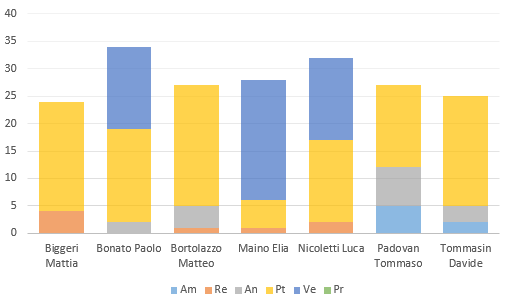
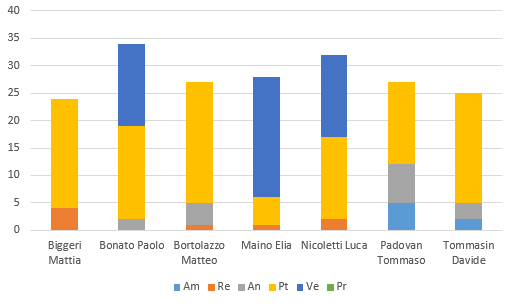
pdp aggiornato

diff --git a/LaTeX/Piano di progetto.tex b/LaTeX/Piano di progetto.tex
@@ -505,7 +505,15 @@
 				con largo anticipo, o spostare quelle già fissate in un momento in cui il maggior numero possibile di componenti offre disponibilità. 
 				
 				Durante questa fase è emerso il rischio \hyperref[Tecnologie adottate]{Tecnologie adottate (2.1.1)} in quanto alcuni membri del gruppo hanno avuto difficoltà nella gestione della Repository e dei commit dovuti ad alcuni conflitti sul codice e sui documenti. L'\emph{Amministratore} però ha fornito tempestivamente documentazione e supporto a riguardo e quindi ciò ha avuto un impatto limitato.
-%			\subsubsection{Conclusione}
+
+			\subsubsection{Conclusione}
+				Questa fase è quasi completamente priva di rischi, in quando è la fase terminante del progetto. Le tecnologie sono ormai conosciute da tutto 
+				il team, ogni membro conosce le proprie responsabilità, capacità e disponibilità e quindi sa gestirsi in modo autonomo, inoltre, come gruppo 
+				ogni singolo membro ha imparato a conoscere gli altri e a saper riconoscere quali task possono essere portati a termine da chi.
+				L'unico rischio che si è presentato e che ha portato a delle variazioni è stato quello della 
+				\hyperref[VariazioneDisponibilita]{Variazione disponibilità (2.2.2)}, in quanto 3 membri su 7 hanno avviato lo stage curriculare. 
+				Non si sono presentati altri rischi. È stata una frase relativamente breve e per questo è stato possibile mitigare i rishci non appena si 
+				inizava a percepire il loro avvenimento.
 				
 				
 	
@@ -991,7 +999,7 @@
 						\multicolumn{1}{r|}{Bonato Paolo} & 3 & & & 16 & 36 & & 55\\ 
 						\multicolumn{1}{r|}{Bortolazzo Matteo} & 6 & 5 & & 15 & & 28 & 54\\ 
 						\multicolumn{1}{r|}{Maino Elia} & 3 & & & 10 & 28 & 14 & 55\\
-						\multicolumn{1}{r|}{Nicoletti Luca} & & & & 25 & & 30 & 55\\
+						\multicolumn{1}{r|}{Nicoletti Luca} & & & & 22 & & 30 & 55\\
 						\multicolumn{1}{r|}{Padovan Tommaso} & & & 2 & & 25 & 28 & 55\\
 						\multicolumn{1}{r|}{Tommasin Davide} & & & 2 & 18 & 33 & & 53\\
 						\noalign{\hrule height 1.5pt}						
@@ -1219,11 +1227,11 @@
 					Responsabile & 12 & 360 \\
 					Amministratore & 10 & 200 \\
 					Analista & 4 & 100\\
-					Progettista & 101 & 2222\\
+					Progettista & 98 & 2156\\
 					Verificatore & 122 & 1830\\
 					Programmatore & 133 & 1995 \\
 					\noalign{\hrule height 0.5pt}
-					\textbf{Totali} & 382 & 6707 \\
+					\textbf{Totali} & 379 & 6641 \\
 					\noalign{\hrule height 1.5pt}
 				\end{tabularx}
 				\caption{Costo ore - fase di Sviluppo ulteriore ed incremento. }
@@ -1297,11 +1305,11 @@
 						Responsabile & 35 & 1050 \\
 						Amministratore & 56 & 1120 \\
 						Analista & 103 & 2575\\
-						Progettista & 277 & 6094\\
+						Progettista & 274 & 6028\\
 						Verificatore & 272 & 4080\\
 						Programmatore & 158 & 2370 \\
 						\noalign{\hrule height 0.5pt}
-						\textbf{Totali} & 901 & 17289 \\
+						\textbf{Totali} & 898 & 17223 \\
 						\noalign{\hrule height 1.5pt}
 					\end{tabularx}
 				\caption{Costo ore - totale con investimento. } 
@@ -1334,11 +1342,11 @@
 						Responsabile & 25 & 750 \\
 						Amministratore & 38 & 760 \\
 						Analista & 20 & 500\\
-						Progettista & 246 & 5412\\
+						Progettista & 238 & 5236\\
 						Verificatore & 236 & 3540\\
 						Programmatore & 158 & 2370 \\
 						\noalign{\hrule height 0.5pt}
-						\textbf{Totali} & 723 & 13332 \\
+						\textbf{Totali} & 715 & 13156 \\
 						\noalign{\hrule height 1.5pt}
 					\end{tabularx}
 				\caption{Costo ore - totale rendicontate.}
@@ -1472,8 +1480,14 @@
 				%image
 				\begin{figure}[H]
 					\centering
-					\includegraphics[width=\textwidth]{diff_pr}
-					\caption{Grafico differenza ore e costi fase di Progettazione e sviluppo.}
+					\includegraphics[width=\textwidth]{diff_h_pr}
+					\caption{Grafico differenza ore fase di Progettazione e sviluppo.}
+				\end{figure}
+				%image
+				\begin{figure}[H]
+					\centering
+					\includegraphics[width=\textwidth]{diff_c_pr}
+					\caption{Grafico differenza costi fase di Progettazione e sviluppo.}
 				\end{figure}
 				
 					\subsubsection{Conclusioni}
@@ -1483,22 +1497,22 @@
                     Queste ore in più sono dovute ad un'analisi ed una progettazione più dettagliata di quanto previsto, e a dei test di utilizzo del 
                     linguaggio \emph{Scala} che non erano stati presi in considerazione. 
 				
-				\subsubsection{Preventivo a finire di Progettazione e sviluppo}
-					Nella seguente tabella viene riportato il preventivo a finire (costruito rivalutando il preventivo iniziale alla luce delle risultanze 
+				\subsubsection{Consuntivo di periodo di Progettazione e sviluppo}
+					Nella seguente tabella viene riportato il consuntivo a finire (costruito rivalutando il preventivo iniziale alla luce delle risultanze 
 					di consuntivo di periodo).
 					\begin{table}[H]
 						\begin{tabularx}{\textwidth}{Y Y Y Y Y}
 							\noalign{\hrule height 1.5pt}
 							\rowcolor{orange!85}Ruolo & Ore previste & Variazione & Costo & Costo rivalutato\\
 							\noalign{\hrule height 1.5pt}
-							Responsabile & 25 & -\space1 & 750 & \cellcolor{green!55}720 \\
-							Amministratore & 38 & -\space1 & 760 & \cellcolor{green!55}740 \\
-							Analista & 20 & +\space2 & 500 & \cellcolor{red!55}550\\
-							Progettista & 246 & +\space3 & 5412 & \cellcolor{red!55}5478\\
-							Verificatore & 236 & -\space3 & 3540 & \cellcolor{green!55}3495\\
-							Programmatore & 158 & +\space2 & 2370 & \cellcolor{red!55}2400\\
+							Responsabile & 25 & -\space1 & 750 & 720 \\
+							Amministratore & 38 & -\space1 & 760 & 740 \\
+							Analista & 20 & +\space2 & 500 & 550\\
+							Progettista & 238 & +\space3 & 5236 & 5302\\
+							Verificatore & 236 & -\space3 & 3540 & 3495\\
+							Programmatore & 158 & +\space2 & 2370 & 2420\\
 							\noalign{\hrule height 0.5pt}
-							\textbf{Totali} & 723 & +2 & 13332 & \cellcolor{red!55}13383\\
+							\textbf{Totali} & 715 & +2 & 13156 & 13227\\
 							\noalign{\hrule height 1.5pt}
 						\end{tabularx}
 					\caption{Costo ore - totale aggiornato fase Progettazione e sviluppo.}
@@ -1530,44 +1544,115 @@
 				\end{table}
 				
 				Di seguito vengono riportati due grafici che rappresentano la differenza in ore e in costi tra preventivo e consuntivo di periodo della 
-				fase di \emph{progettazione e sviluppo}.
+				fase di \emph{Sviluppo ulteriore ed incremento}.
 				%image
 				\begin{figure}[H]
 					\centering
-					\includegraphics[width=\textwidth]{diff_in}
-					\caption{Grafico differenza ore e costi fase di Sviluppo ulteriore ed incremento.}
-				\end{figure}	
+					\includegraphics[width=\textwidth]{diff_h_in}
+					\caption{Grafico differenza ore fase di Sviluppo ulteriore ed incremento.}
+				\end{figure}
+				%image
+				\begin{figure}[H]
+					\centering
+					\includegraphics[width=\textwidth]{diff_c_in}
+					\caption{Grafico differenza costi fase di Sviluppo ulteriore ed incremento.}
+				\end{figure}
 				
 					\subsubsection{Conclusioni}		
 						Come è possibile notare dalla tabella e dalle immagini, la realizzazione di questa fase discosta leggermente da quanto previsto. In particolare si evince che le attività di programmazione sono state sopravvalutate. L'apprendimento delle tecnologie per la programmazione è stato più rapido di quanto preventivato e questo ha permesso di risparmiare delle ore.
 Al contrario la realizzazione dei test da parte dei verificatori ha richiesto più tempo del previsto. In conclusione la fase è stata portata a termine con un leggero risparmio.
 				
-					\subsubsection{Preventivo a finire Sviluppo ulteriore ed incremento}
-					Nella seguente tabella viene riportato il preventivo a finire (costruito rivalutando il preventivo iniziale alla luce delle risultanze 
+					\subsubsection{Consuntivo di periodo Sviluppo ulteriore ed incremento}
+					Nella seguente tabella viene riportato il consuntivo di periodo (costruito rivalutando il preventivo iniziale alla luce delle risultanze 
 					di consuntivo di periodo).
 					\begin{table}[H]
 						\begin{tabularx}{\textwidth}{Y Y Y Y Y}
 							\noalign{\hrule height 1.5pt}
 							\rowcolor{orange!85}Ruolo & Ore previste & Variazione & Costo & Costo rivalutato\\
 							\noalign{\hrule height 1.5pt}
-							Responsabile 	& 25  & -\space 1 & 750  & \cellcolor{green!55}720 \\
-							Amministratore 	& 38  & -\space 1 & 760  & \cellcolor{green!55}740 \\
-							Analista 		& 20  & +\space 2 & 500  & \cellcolor{red!55}550\\
-							Progettista 	& 246 & +\space 4 & 5412 & \cellcolor{red!55}5500\\
-							Verificatore 	& 236 & -\space 1 & 3540 & \cellcolor{green!55}3525\\
-							Programmatore 	& 158 & -\space 2 & 2370 & \cellcolor{green!55}2340\\
+							Responsabile 	& 24  & 0 & 720  & 720 \\
+							Amministratore 	& 37  & 0 & 740  & 740 \\
+							Analista 		& 22  & 0 & 550  & 550\\
+							Progettista 	& 235 & +\space 1 & 5302 & 5324\\
+							Verificatore 	& 233 & +\space 2 & 3495 & 3525\\
+							Programmatore 	& 160 & -\space 4 & 2420 & 2360\\
 							\noalign{\hrule height 0.5pt}
-							\textbf{Totali} & 723 & +1 & 13332 & \cellcolor{red!55}13375\\
+							\textbf{Totali} & 717 & -\space1 & 13227 & 13219\\
 							\noalign{\hrule height 1.5pt}
 						\end{tabularx}
 					\caption{Costo ore - totale Sviluppo ulteriore ed incremento.}
 					\label{TCRendicontati}
 					\end{table}
 
-                    
-        %Da aggiungere man mano
-		%	\subsection{Conclusione}
-		%		\subsubsection{Conclusioni}
+
+			\subsection{Conclusione}
+                Si riporta di seguito il consuntivo di periodo della fase di \emph{Conclusione}. \\
+                La tabella sottostante riporta la differenza di ore tra preventivo e consuntivo, divise per ruolo. Il significato dei segni
+                positivi e negativi è lo stesso che nella \hyperref[DCSceltaCapitolato]{Tabella 20}.
+                \begin{table}[H]
+					\begin{tabularx}{\textwidth}{Y Y Y}
+						\noalign{\hrule height 1.5pt}
+						\rowcolor{orange!85}Ruolo & Ore & Costo \\
+						\noalign{\hrule height 1.5pt}
+						Responsabile & -\space 1 & -\space 30 \\
+						Amministratore & -\space 5 & -\space 100 \\
+						Analista & 0 & 0 \\
+						Progettista & -\space 1 & -\space 22 \\
+						Verificatore & +\space 3 & +\space 450 \\
+						Programmatore & +\space 2 & +\space 50 \\
+						\noalign{\hrule height 0.5pt}
+						\textbf{Totali} & -\space 2 & -\space 57 \\
+						\noalign{\hrule height 1.5pt}
+					\end{tabularx}
+					\caption{Differenza consuntivo/preventivo - fase di Conclusione. } 
+					\label{ConsuntivoIncremento}
+				\end{table}
+				
+				Di seguito vengono riportati due grafici che rappresentano la differenza in ore e in costi tra preventivo e consuntivo di periodo della 
+				fase di \emph{Conclusione}.
+				%image
+				\begin{figure}[H]
+					\centering
+					\includegraphics[width=\textwidth]{diff_h_c}
+					\caption{Grafico differenza ore fase di Conclusione.}
+				\end{figure}
+				%image
+				\begin{figure}[H]
+					\centering
+					\includegraphics[width=\textwidth]{diff_c_c}
+					\caption{Grafico differenza costi fase di Conclusione.}
+				\end{figure}
+				
+				\subsubsection{Conclusioni}
+					In questa fase, le ore effettivamente impiegate discostano leggermente da quanto preventivato. Le ore di amministrazione preventivate 
+					risultavano eccessive, in quanto giusti a questo punto, il gruppo conosceva già gli orari in cui era possibile effettuare riunioni, o i 
+					luoghi in cui trovarsi, e quindi non è stato necessario programmare riunioni o decidere dove ci si poteva incontrare per lavorare in gruppo.
+					Sono state impiegate le ore risparmiate in ore di Verifica e di Programmazione. La verifica per poter effetuare al meglio i test e portarli 
+					a termine, e la programmazione, per includere alcuni dettagli e alcune funzionalità non previste nei requisiti minimi richiesti.
+					Pur avendo spostato alcune ore da un ruolo ad altri, le ore totali impiegate risultano essere inferiori a quelle preventivate e questo ha 
+					portato, nel complesso, ad un guadagno sul totale di 57 \eurosym .
+
+				\subsubsection{Preventivo a finire}
+					Di seguito viene riportata una tabella che mostra la variazione rispetto alla fase precedente in ore e vosti. Come si può notare, 
+					sia le ore, anche se solamente di 1, sia i costi, sono minorati rispetto a quanto preventivato. Questo è dovuto a poca esperienza nel 
+					valutare le risorse necessarie allo sviluppo, ad un rapido apprendimento della tecnologia utilizzata che ha portato a risparmiare diverse ore.
+					\begin{table}[H]
+						\begin{tabularx}{\textwidth}{Y Y Y Y Y}
+							\noalign{\hrule height 1.5pt}
+							\rowcolor{orange!85}Ruolo & Ore previste & Variazione & Costo & Costo rivalutato\\
+							\noalign{\hrule height 1.5pt}
+							Responsabile 	& 24  & -\space1 & 720  & 690 \\
+							Amministratore 	& 37  & -\space5 & 740  & 640 \\
+							Analista 		& 22  & 0 & 550  & 550\\
+							Progettista 	& 236 & -\space 1 & 5324 & 5302\\
+							Verificatore 	& 231 & +\space 3 & 3525 & 3875\\
+							Programmatore 	& 156 & +\space 2 & 2360 & 2410\\
+							\noalign{\hrule height 0.5pt}
+							\textbf{Totali} & 716 & -\space1 & 13219 & 13162\\
+							\noalign{\hrule height 1.5pt}
+						\end{tabularx}
+					\caption{Preventivo a finire, fine delle fasi.}
+					\end{table}
 
 	\cleardoublepage
 	\addcontentsline{toc}{section}{\listfigurename}

diff --git a/LaTeX/Tabelle/tabelle_diario_modifiche/tabella_pdp.tex b/LaTeX/Tabelle/tabelle_diario_modifiche/tabella_pdp.tex
@@ -9,14 +9,16 @@
 \begin{longtable}{s f m X}
 				\rowcolor{orange!85} Versione & Data & Autore & Descrizione \\
 				\endhead
+				3.0.2 & 2016-06-14 & \emph{Progettista} \newline Nicoletti Luca & Terminato il conteggio delle ore effetivamente impiegate e riposto tutto 
+				nel preventivo a finire posto in ultima sezione. Inseriti i grafici.\\
+                \hline		
+				3.0.1 & 2016-06-06 & \emph{Progettista} \newline Nicoletti Luca & Riviste immagini e tabelle riguardanti ripartizione ore, totale ore per ruoli,
+				costi e consuntivi di periodo. Sistemate tutte le ore riportate errate.\\
+                \hline
 				3.0.0 & 2016-05-16 & \emph{Responsabile} \newline Paolo Bonato & Documento approvato.\\
                 \hline				
-				
-				
-				
 				2.1.0 & 2016-05-15 & \emph{Verificatore} \newline Davide Tommasin & Verificato il documento.\\
-                \hline				
-				
+                \hline
 				2.0.4 & 2016-05-13 & \emph{Progettista} \newline Padovan Tommaso & Correzioni di alcune caption sulle tabelle del consuntivo. Aggiunta attulizzazione dei rischi per la fase di Sviluppo ulteriore ed incremento.\\
                 \hline				
 				2.0.3 & 2016-05-12 & \emph{Progettista} \newline Bonato Paolo & Impostato il consuntivo della fase di Sviluppo ulteriore ed incremento. Cambiate le immagini del consuntivo.\\
